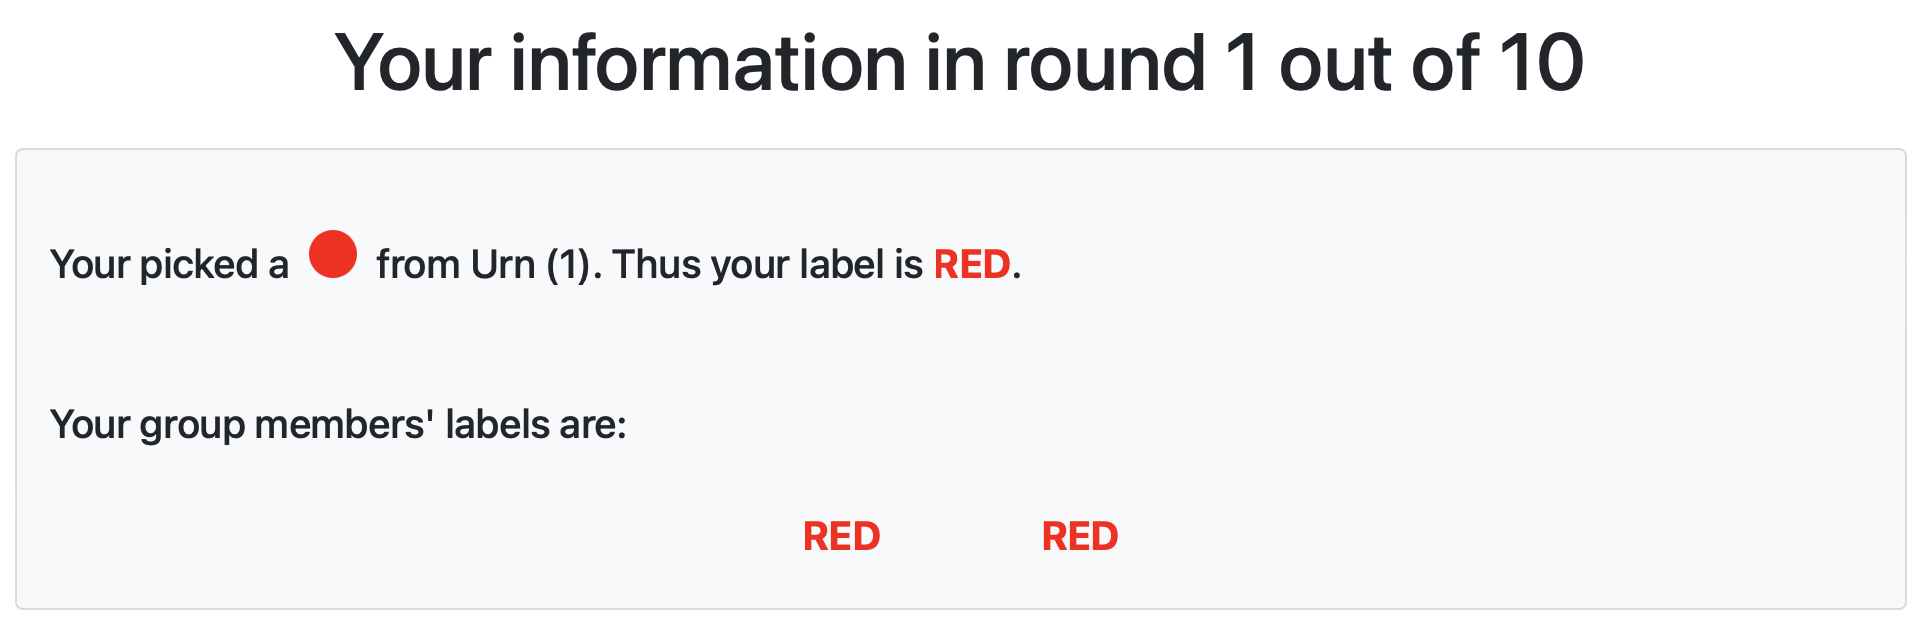
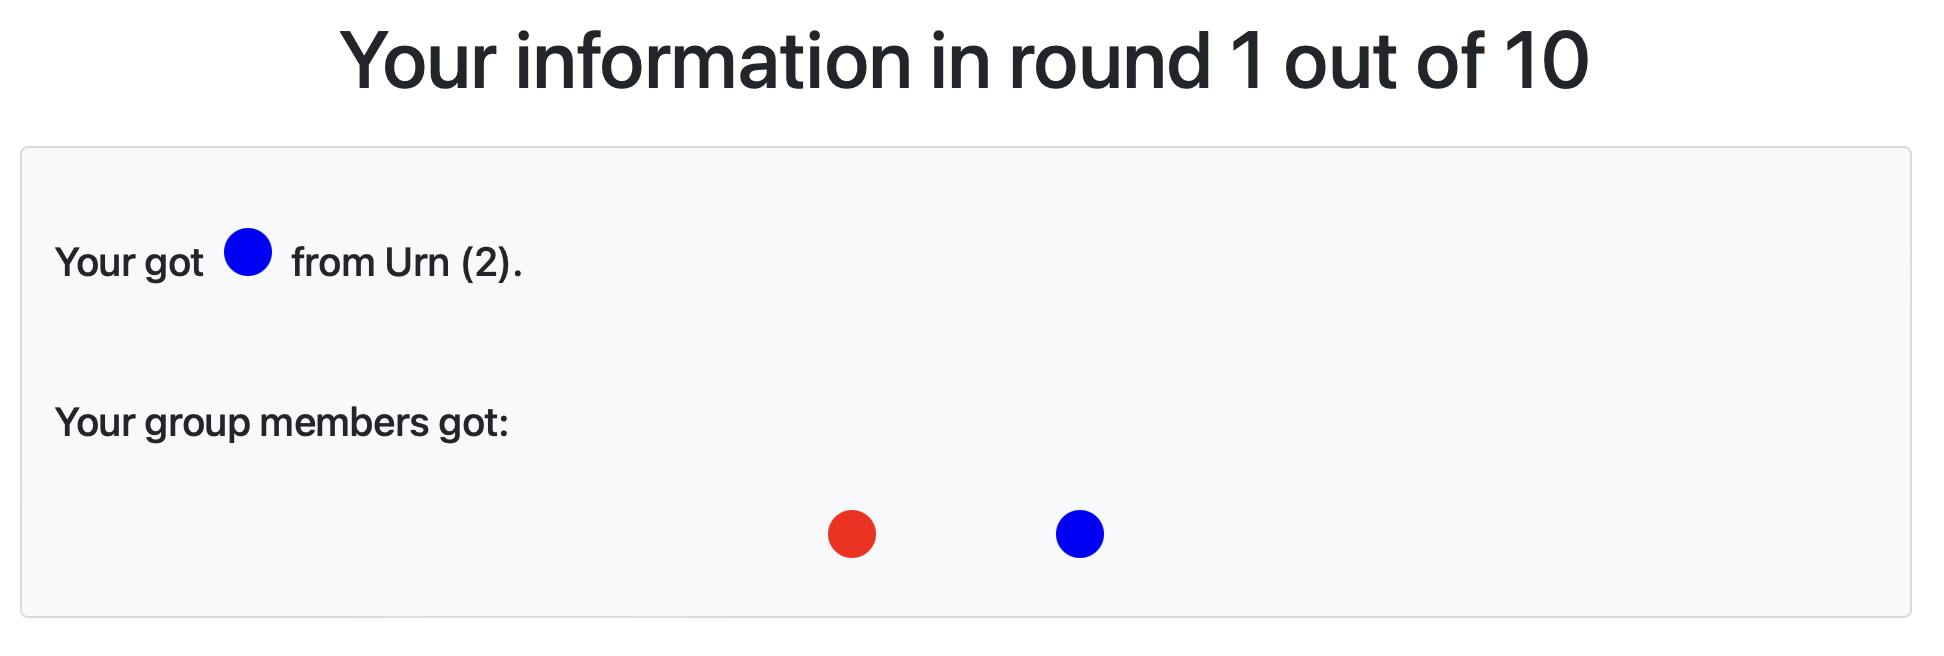
.

diff --git a/voting/Voting/Ranking.html b/voting/Voting/Ranking.html
@@ -15,6 +15,21 @@
             .blue {
                 color: blue;
             }
+            .ball {
+              width: 20px;
+              height: 20px;
+              border-radius: 50%;
+              display: inline-block;
+              vertical-align: middle;
+              margin-right: 10px;
+            }
+            .red-ball {
+              background-color: red;
+            }
+            .blue-ball {
+              background-color: blue;
+            }
+
         </style>
 
          <div style="text-align: justify;" class="card bg-light mb-3  ">
@@ -197,7 +212,21 @@
 
             updateRankingInput();
         });
+
+        document.addEventListener("DOMContentLoaded", function() {
+            const items = document.querySelectorAll(".draggable");
+
+            items.forEach(function(item) {
+                if(item.innerHTML.includes("R")) {
+                    item.innerHTML = item.innerHTML.replace("R", "<span class='ball red-ball'></span>");
+        }
+                if(item.innerHTML.includes("B")) {
+                    item.innerHTML = item.innerHTML.replace("B", "<span class='ball blue-ball'></span>");
+                }
+            });
+        });
     </script>
+
 </body>
 </html>
 

diff --git a/voting/Voting/NonChat.html b/voting/Voting/NonChat.html
@@ -1,0 +1,15 @@
+{% load otreechat %}
+{{ block title }}Please wait{{ endblock }}
+{{ block content }}
+
+<div>
+
+
+        <h6>You are not successfully linked with anyone in your group.</h6>
+        <h6>Please wait for 2 minutes... </h6>
+
+</div>
+
+
+
+{{ endblock }}

diff --git a/voting/Voting/__init__.py b/voting/Voting/__init__.py
@@ -20,12 +20,12 @@ class C(BaseConstants):
     ]
     STATES = ['R', 'B']
     QUALITIES = ['h', 'l']
-    MAJORITY_B = ['link with B', 'link with R', 'do not want to chat']
-    MAJORITY_R = ['link with R', 'link with B', 'do not want to chat']
-    MINORITY_R = ['link with B', 'do not want to chat']
-    MINORITY_B = ['link with R', 'do not want to chat']
-    ALL_R = ['link with R', 'do not want to chat']
-    ALL_B = ['link with B', 'do not want to chat']
+    MAJORITY_B = ['link with the voter who got B', 'link with the voter who got R', 'do not want to chat']
+    MAJORITY_R = ['link with the voter who got R', 'link with the voter who got B', 'do not want to chat']
+    MINORITY_R = ['link with the voter who got B', 'do not want to chat']
+    MINORITY_B = ['link with the voter who got R', 'do not want to chat']
+    ALL_R = ['link with the voter who got R', 'do not want to chat']
+    ALL_B = ['link with the voter who got B', 'do not want to chat']
 
 
 
@@ -587,6 +587,13 @@ class Chat(Page):
     timeout_seconds = 120
 
 
+class NonChat(Page):
+    @staticmethod
+    def is_displayed(player):
+        chat_participants = json.loads(player.group.chat_participants_record)
+        return player.id_in_group not in chat_participants
+
+    timeout_seconds = 120
 
 class ResultsWaitPage2(WaitPage):
     wait_for_all_groups = True
@@ -634,4 +641,4 @@ class Results(Page):
 
 
 
-page_sequence = [StartRoundWaitPage, Welcome, General_Instructions, Main_Instructions, Comprehension_Test, Info, Ranking, ResultsWaitPage1, Chat, ResultsWaitPage2,  Voting, ResultsWaitPage3, Results, ResultsWaitPage4, ResultsWaitPage5]
+page_sequence = [StartRoundWaitPage, Welcome, General_Instructions, Main_Instructions, Comprehension_Test, Info, Ranking, ResultsWaitPage1, Chat, NonChat, ResultsWaitPage2,  Voting, ResultsWaitPage3, Results, ResultsWaitPage4, ResultsWaitPage5]
